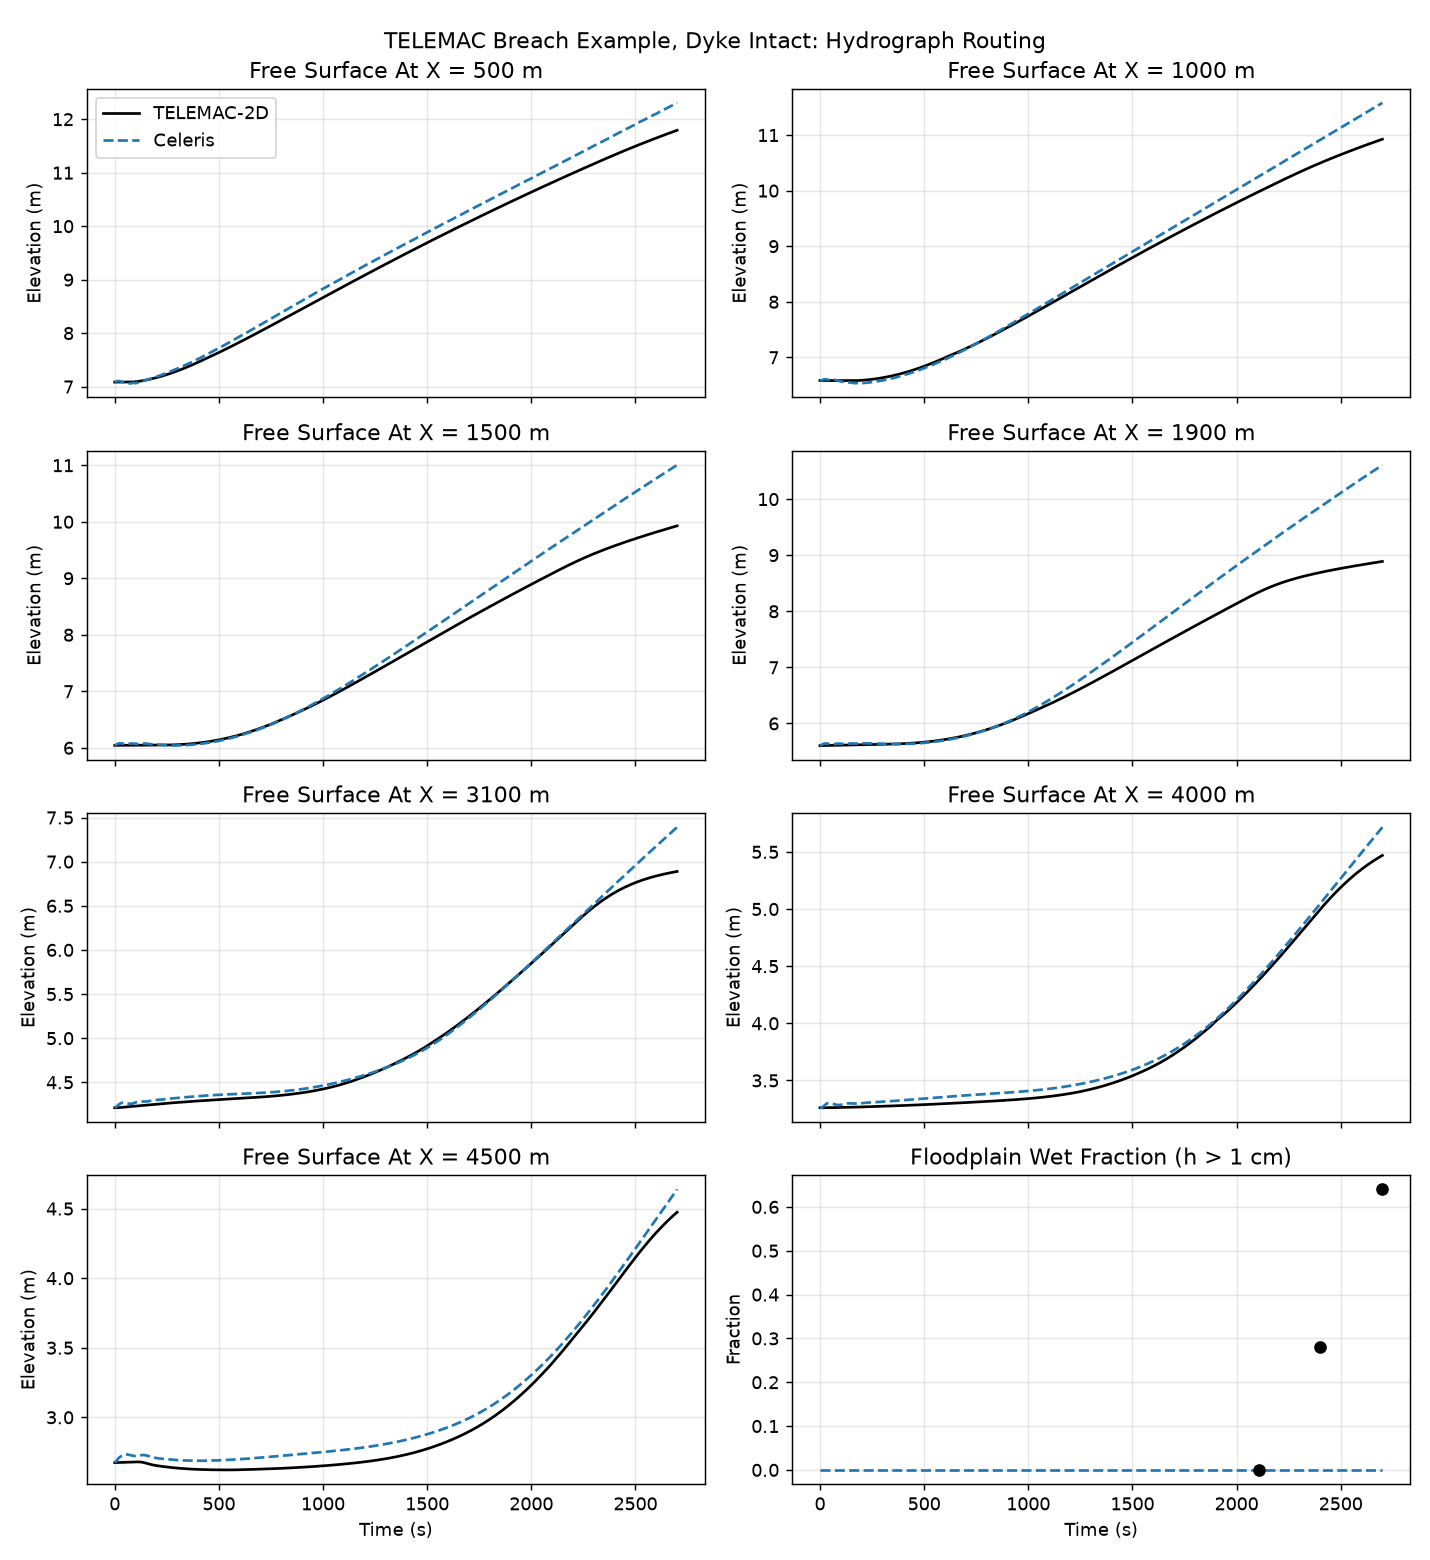
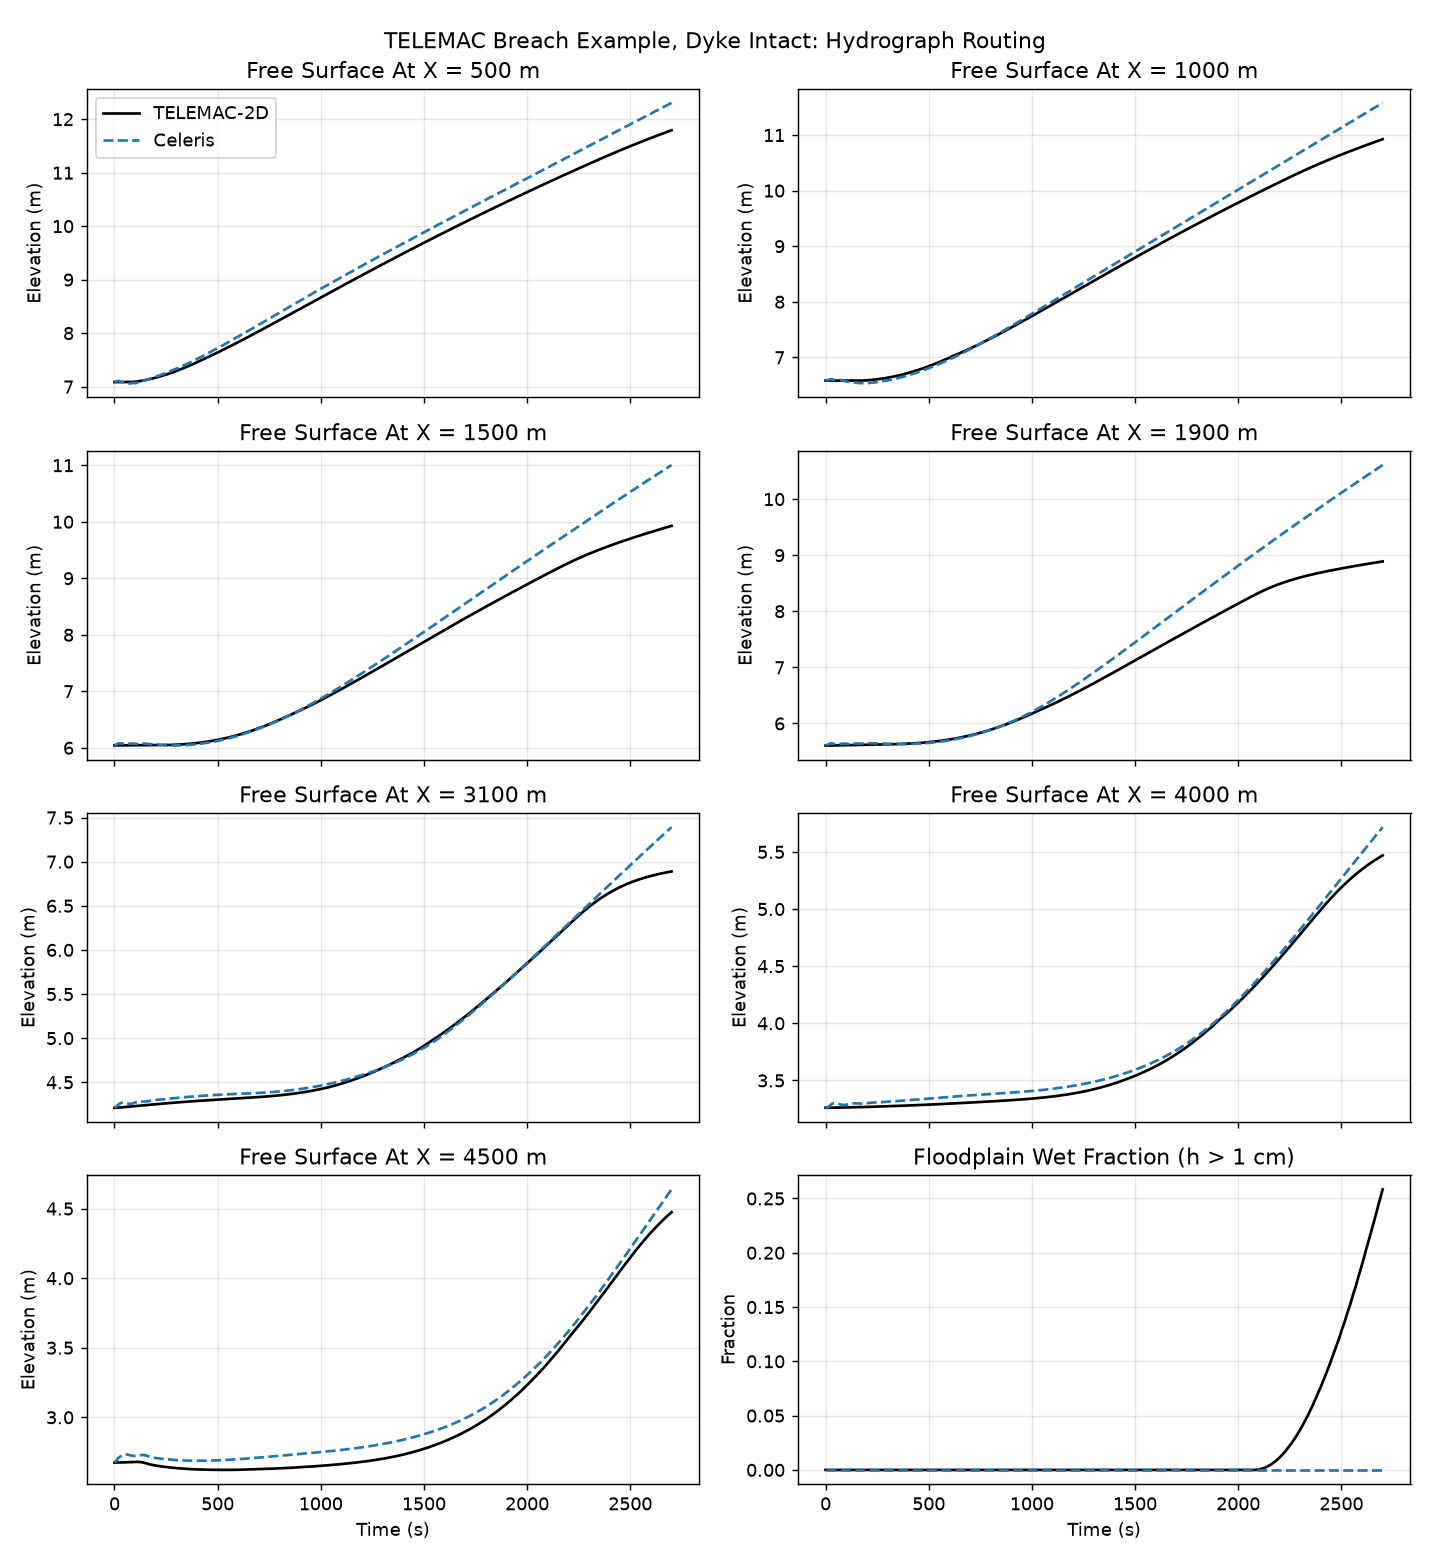
Breach validation: TELEMAC floodplain wet fraction by area on the grid
Node-count fractions over-weight the 3 m dyke-toe mesh against the 45 m
floodplain triangles (64 % of nodes vs 26 % of area at 2700 s); the compare
stage now interpolates TELEMAC depth onto the Celeris grid and plots the
full series.

diff --git a/examples/validation/breach/breach_validation.py b/examples/validation/breach/breach_validation.py
@@ -147,7 +147,9 @@ def run(out: Path, duration_s: float) -> None:
         friction=MANNING_N,
         Courant=COURANT,
     )
-    solver = Solver(domain=dom, boundary_conditions=bc, model="SWE", infiltrationRate=0.0)
+    solver = Solver(
+        domain=dom, boundary_conditions=bc, model="SWE", infiltrationRate=0.0
+    )
     solver.landslide = HydrographSource(
         solver, g["inlet"], LIQ_T_S, LIQ_Q_M3S, min_depth_m=0.2
     )
@@ -158,7 +160,12 @@ def run(out: Path, duration_s: float) -> None:
     state[:, :, 1] = g["hu0"]
     state[:, :, 2] = g["hv0"]
     solver.InitStates()
-    for f in (solver.State, solver.stateUVstar, solver.NewState, solver.current_stateUVstar):
+    for f in (
+        solver.State,
+        solver.stateUVstar,
+        solver.NewState,
+        solver.current_stateUVstar,
+    ):
         f.from_numpy(state)
     solver.InitStates = lambda: None  # keep Evolve_0 from zeroing the state again
     evolve.Evolve_0()
@@ -225,6 +232,27 @@ def run(out: Path, duration_s: float) -> None:
     print(f"wall {time.perf_counter() - t0:.0f}s -> {out / 'results.npz'}", flush=True)
 
 
+def _telemac_floodplain_wet_fraction(out: Path):
+    """TELEMAC wet AREA fraction of the floodplain on the Celeris grid (h > DRY_M).
+
+    Node counts would over-weight the dyke toe, where the mesh is 3 m, against
+    the 45 m floodplain triangles, so the depth is interpolated onto the grid.
+    """
+    from matplotlib.tri import LinearTriInterpolator, Triangulation
+
+    g = dict(np.load(out / "grid.npz"))
+    fp = g["floodplain"]
+    ii, jj = np.nonzero(fp)
+    xq, yq = ii * float(g["dx"]), jj * float(g["dx"])
+    d = np.load(TELEMAC_REF / "breach_nobreach_restart.npz")
+    tri = Triangulation(d["x"], d["y"], d["ikle"])
+    frac = [
+        float(np.mean(np.ma.filled(LinearTriInterpolator(tri, h)(xq, yq), 0.0) > DRY_M))
+        for h in d["water_depth"]
+    ]
+    return d["times"], np.array(frac)
+
+
 def compare(out: Path) -> None:
     import matplotlib
 
@@ -232,18 +260,28 @@ def compare(out: Path) -> None:
     import matplotlib.pyplot as plt
 
     r = dict(np.load(out / "results.npz"))
-    ref = np.genfromtxt(TELEMAC_REF / "free_surface_centreline.csv", delimiter=",", names=True)
+    ref = np.genfromtxt(
+        TELEMAC_REF / "free_surface_centreline.csv", delimiter=",", names=True
+    )
     t_ref = ref["time_s"]
     rows = []
     fig, axes = plt.subplots(4, 2, figsize=(11, 12), sharex=True)
     for k, (px, ax) in enumerate(zip(PROBES_X_M, axes.ravel())):
         tel = ref[f"fs_x{int(px)}"]
         cel = np.interp(t_ref, r["t_s"], r["eta_probes"][:, k])
-        for label, sel in (("t<=2100s", t_ref <= 2100.0), ("full", np.ones_like(t_ref, bool))):
+        for label, sel in (
+            ("t<=2100s", t_ref <= 2100.0),
+            ("full", np.ones_like(t_ref, bool)),
+        ):
             d = cel[sel] - tel[sel]
             rows.append(
-                dict(probe_x_m=px, window=label, rmse_m=float(np.sqrt(np.mean(d**2))),
-                     max_abs_m=float(np.abs(d).max()), bias_m=float(d.mean()))
+                dict(
+                    probe_x_m=px,
+                    window=label,
+                    rmse_m=float(np.sqrt(np.mean(d**2))),
+                    max_abs_m=float(np.abs(d).max()),
+                    bias_m=float(d.mean()),
+                )
             )
         ax.plot(t_ref, tel, "k-", label="TELEMAC-2D")
         ax.plot(t_ref, cel, "C0--", label="Celeris")
@@ -251,8 +289,9 @@ def compare(out: Path) -> None:
         ax.set_ylabel("Elevation (m)")
         ax.grid(alpha=0.3)
     ax = axes.ravel()[-1]
+    t_fp, wet_tel = _telemac_floodplain_wet_fraction(out)
+    ax.plot(t_fp, wet_tel, "k-", label="TELEMAC-2D")
     ax.plot(r["t_s"], r["floodplain_wet_fraction"], "C0--", label="Celeris")
-    ax.plot([2110, 2400, 2700], [0.0, 0.28, 0.64], "ko", label="TELEMAC-2D (README)")
     ax.set_title("Floodplain Wet Fraction (h > 1 cm)")
     ax.set_ylabel("Fraction")
     ax.grid(alpha=0.3)
@@ -267,10 +306,15 @@ def compare(out: Path) -> None:
         wri.writeheader()
         wri.writerows(rows)
     wet = r["floodplain_wet_fraction"]
-    first_wet = r["t_s"][np.argmax(wet > 0.0)] if (wet > 0).any() else np.nan
-    print(f"floodplain first wet: Celeris {first_wet:.0f} s vs TELEMAC 2110 s")
-    for tq, ref_frac in ((2400.0, 0.28), (2700.0, 0.64)):
-        print(f"wet fraction at {tq:.0f} s: Celeris {np.interp(tq, r['t_s'], wet):.3f} vs TELEMAC {ref_frac}")
+    first = lambda tt, w: tt[np.argmax(w > 0.0)] if (w > 0).any() else np.nan
+    print(
+        f"floodplain first wet: Celeris {first(r['t_s'], wet):.0f} s vs TELEMAC {first(t_fp, wet_tel):.0f} s"
+    )
+    for tq in (2400.0, 2700.0):
+        print(
+            f"wet area fraction at {tq:.0f} s: Celeris {np.interp(tq, r['t_s'], wet):.3f} "
+            f"vs TELEMAC {np.interp(tq, t_fp, wet_tel):.3f}"
+        )
     for row in rows:
         print(row)
 
@@ -281,4 +325,8 @@ if __name__ == "__main__":
     ap.add_argument("--out", type=Path, default=OUT_DEFAULT)
     ap.add_argument("--duration", type=float, default=DURATION_S)
     a = ap.parse_args()
-    {"prep": lambda: prep(a.out), "run": lambda: run(a.out, a.duration), "compare": lambda: compare(a.out)}[a.stage]()
+    {
+        "prep": lambda: prep(a.out),
+        "run": lambda: run(a.out, a.duration),
+        "compare": lambda: compare(a.out),
+    }[a.stage]()

diff --git a/examples/validation/breach/README.md b/examples/validation/breach/README.md
@@ -12,8 +12,8 @@ case; TELEMAC is the reference.
 8.0 m at x = 2000) separates the channel from a 500 m wide dry floodplain.
 Inflow rises linearly from 50 m3/s at t = 0 to 406 m3/s at t = 2700 s; the outlet
 free surface is prescribed (0.87 to 2.49 m). Initial state: developed flow at
-50 m3/s from `ini_breach.slf`. TELEMAC overtops the dyke from t = 2110 s and has
-64 % of the floodplain wet at 2700 s.
+50 m3/s from `ini_breach.slf`. TELEMAC overtops the dyke from t = 2090 s and has
+26 % of the floodplain area wet at 2700 s (8 % at 2400 s).
 
 ## Celeris setup (`breach_validation.py`)
 
